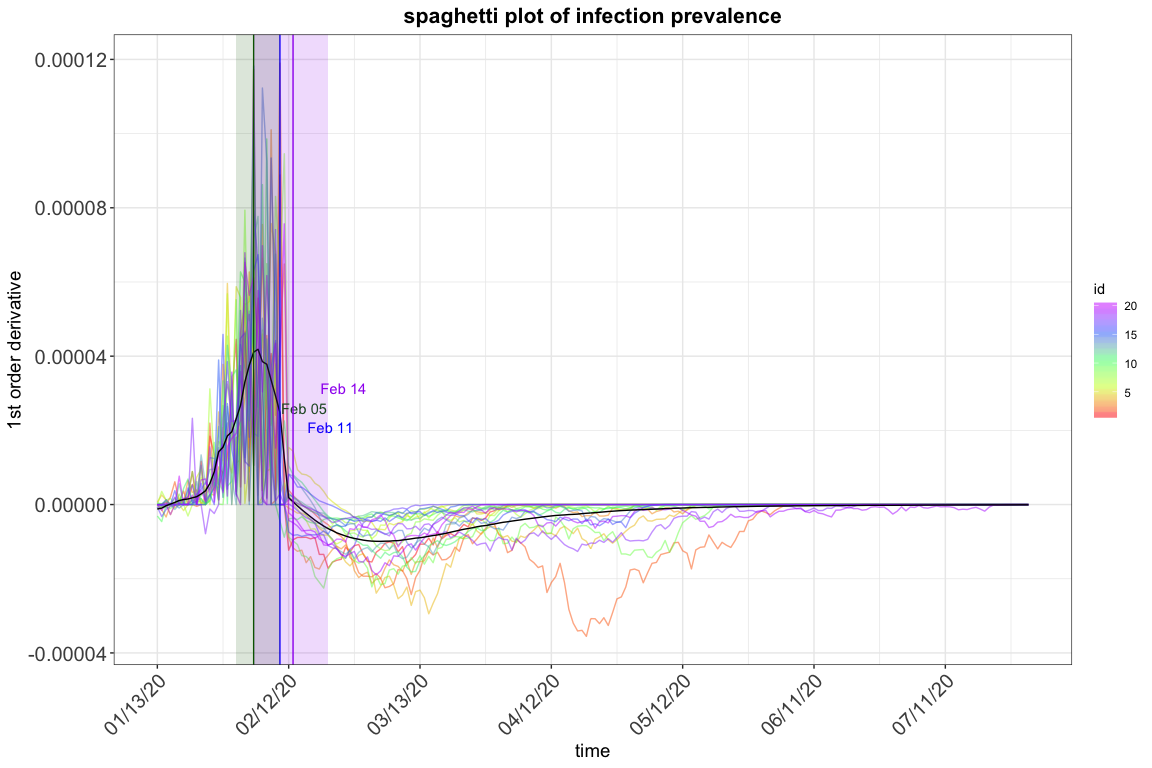
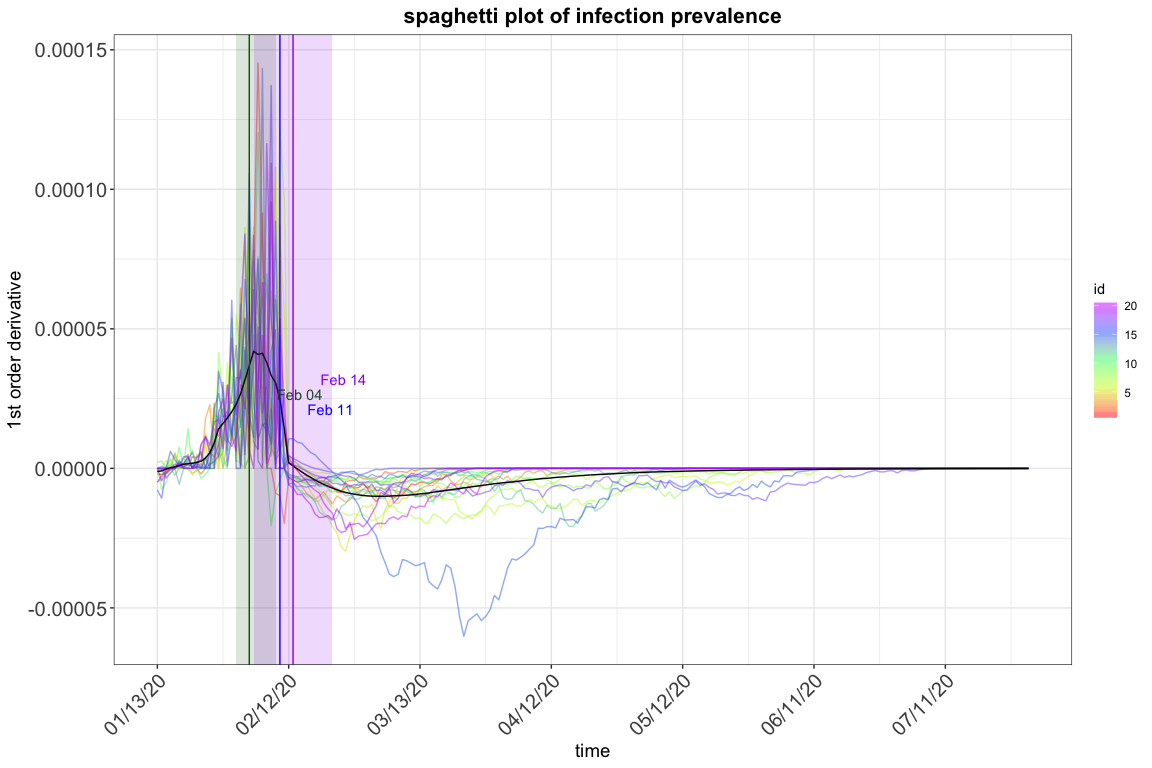
update version to 0.3.3 and update data

diff --git a/README.md b/README.md
@@ -9,8 +9,8 @@ R package eSIR: extended state-space SIR epidemiological models
     summarized from [JHU CSSE
     GitHub](https://github.com/CSSEGISandData/COVID-19) and
     [1Point3Acres](https://coronavirus.1point3acres.com). Only 41 states
-    have complete recovery data. We will update the data every Thursday or Friday
-    evening.
+    have complete recovery data. We will update the data every Thursday
+    or Friday evening.
 
 2.  Since version 0.3.3, we added Gelman-Rubin statistic for convergence
     check using
@@ -188,9 +188,9 @@ NI_complete <- c( 41, 41, 41, 45, 62, 131, 200, 270, 375, 444, 549, 729,
 ``` r
   res.step$dic_val
 #> Mean deviance:  -1257 
-#> penalty 41.83 
-#> Penalized deviance: -1215
-
+#> penalty 37.67 
+#> Penalized deviance: -1220
+  #res.step$gelman_diag_list
   ### continuous exponential function of pi(t)
   res.exp <- tvt.eSIR(Y, R, begin_str="01/13/2020", death_in_R = 0.4,
                       T_fin = 200, exponential = TRUE, dic=F, lambda0 = 0.05,
@@ -305,35 +305,6 @@ NI_complete <- c( 41, 41, 41, 45, 62, 131, 200, 270, 375, 444,
 ![](man/figures/README-model2-1.png)<!-- -->
 
 ``` r
-  res.q$gelman_diag_list
-#> [[1]]
-#> <simpleError in gelman.diag(as.mcmc.list(jags_sample[[name]])): could not find function "gelman.diag">
-#> 
-#> [[2]]
-#> <simpleError in gelman.diag(as.mcmc.list(jags_sample[[name]])): could not find function "gelman.diag">
-#> 
-#> [[3]]
-#> <simpleError in gelman.diag(as.mcmc.list(jags_sample[[name]])): could not find function "gelman.diag">
-#> 
-#> [[4]]
-#> <simpleError in gelman.diag(as.mcmc.list(jags_sample[[name]])[, (1:3) * (T_prime +     1)]): could not find function "gelman.diag">
-#> 
-#> [[5]]
-#> [[5]][[1]]
-#> [1] "theta_Q: "
-#> 
-#> [[5]][[2]]
-#> <simpleError in gelman.diag(as.mcmc.list(jags_sample[[name]])[, (T_prime + 1)]): could not find function "gelman.diag">
-#> 
-#> 
-#> [[6]]
-#> <simpleError in gelman.diag(as.mcmc.list(jags_sample[[name]])): could not find function "gelman.diag">
-#> 
-#> [[7]]
-#> <simpleError in gelman.diag(as.mcmc.list(jags_sample[[name]])): could not find function "gelman.diag">
-#> 
-#> [[8]]
-#> <simpleError in gelman.diag(as.mcmc.list(jags_sample[[name]])): could not find function "gelman.diag">
 
   #res.noq <- qh.eSIR (Y,R,begin_str="01/13/2020",death_in_R = 0.4,
   #                    T_fin=200,casename="Hubei_noq",
@@ -462,7 +433,7 @@ the web page.
 3.  Gelman, A., & Rubin, D. B. (1992). Inference from iterative
     simulation using multiple sequences. Statistical science, 7(4),
     457-472.
-    
+
 -----------
 Shield: [![CC BY 4.0][cc-by-shield]][cc-by]
 
